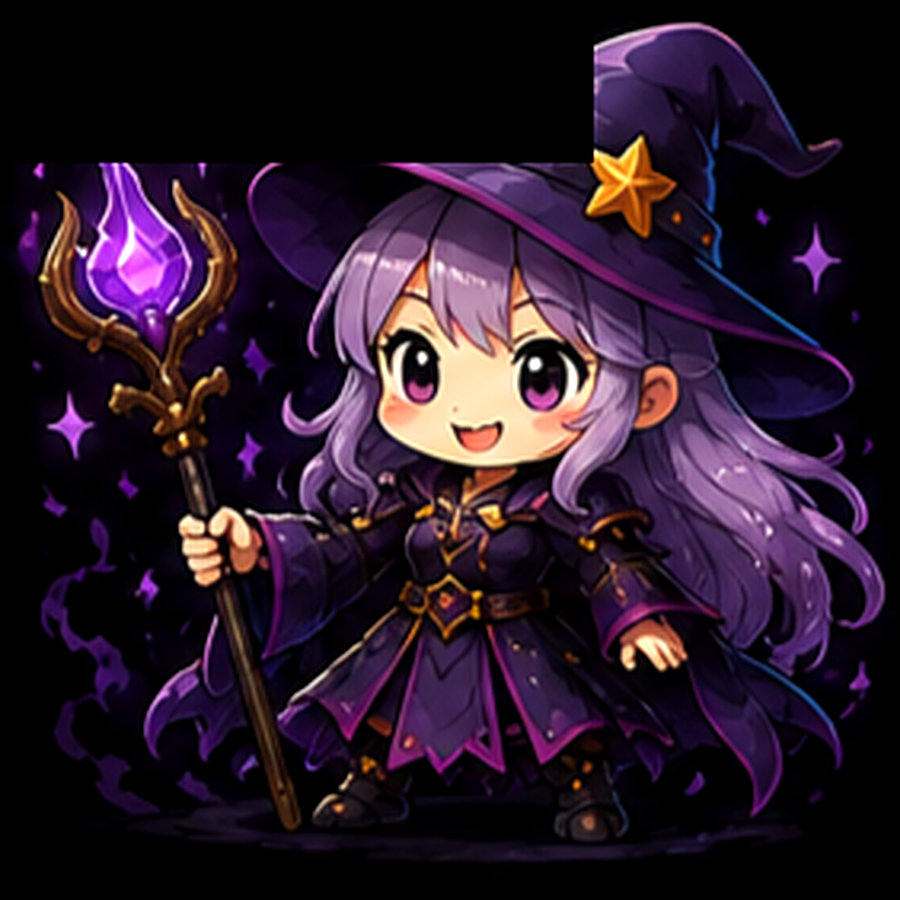
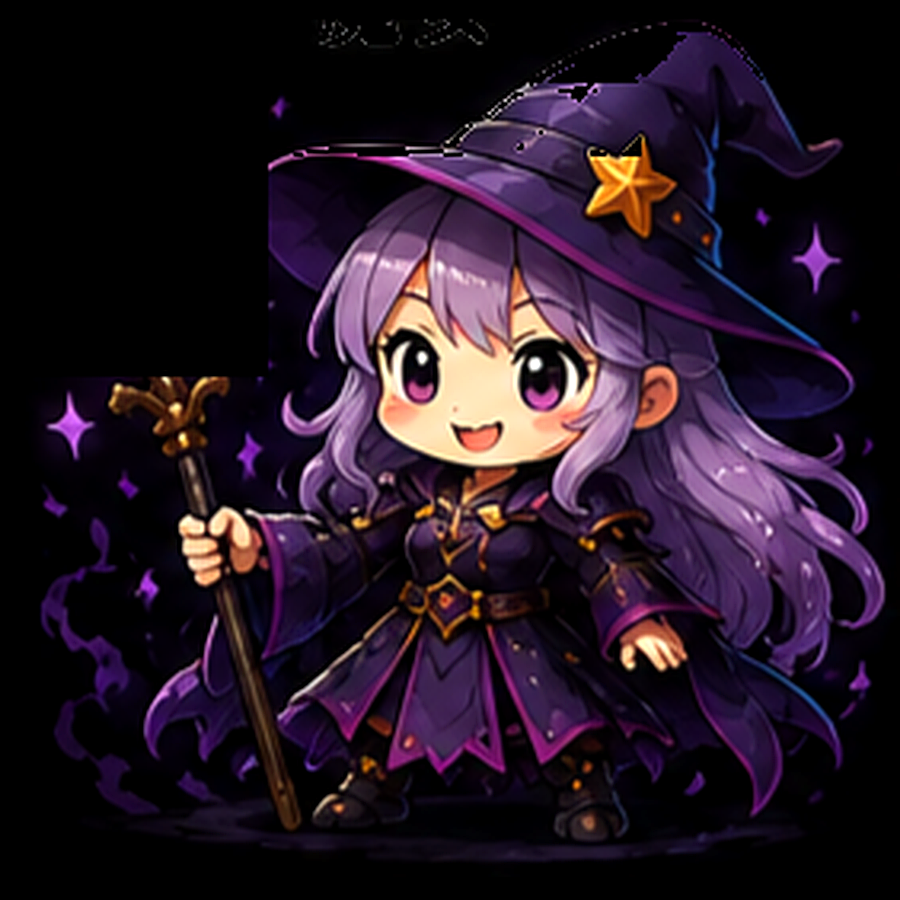
Add files via upload

diff --git a/game.js b/game.js
@@ -887,6 +887,31 @@ const SHOP_ITEMS = [
   { id: 'grace_time',     name: '⏱ 猶予タイム', cost: 60,  desc: '5秒間、危険ラインの判定を止める' },
 ];
 
+// ===== 盤面の状況から「今使うと良いアイテム」を判定 =====
+// ゴールドが足りない場合はおすすめしない
+function getShopRecommendation() {
+  if (!bodies.length) return null;
+
+  const topY = Math.min(...bodies.map(m => m.body.position.y - monsterDef(m.idx).radius));
+  const nearDanger = topY < 170; // 危険ラインに近い高さまで積み上がっている
+
+  if (nearDanger || Date.now() < mergeGraceEntries.reduce((max,e)=>Math.max(max,e.until),0)) {
+    if (score >= 200) return { id: 'bomb_clear', reason: '盤面が危険ラインに近づいています。今のうちに上段を片付けましょう。' };
+    if (score >= 60)  return { id: 'grace_time',  reason: '盤面が危険ラインに近づいています。少し猶予を作って落ち着いて置きましょう。' };
+    return null;
+  }
+
+  // 同じ階層のモンスターが多く滞留＝合体が進んでいない状況
+  const counts = {};
+  bodies.forEach(m => { if (typeof m.idx === 'number') counts[m.idx] = (counts[m.idx] || 0) + 1; });
+  const maxCount = Object.values(counts).length ? Math.max(...Object.values(counts)) : 0;
+  if (maxCount >= 6 && score >= 100) {
+    return { id: 'rainbow_charge', reason: '同じ階層のモンスターが盤面に溜まっています。虹スライムで一気にさばきましょう。' };
+  }
+
+  return null;
+}
+
 function openShop() {
   if (isGameOver) return;
   renderShop();
@@ -901,12 +926,25 @@ function renderShop() {
   document.getElementById('shop-gold').textContent = score;
   const list = document.getElementById('shop-list');
   list.innerHTML = '';
+
+  const recommendation = getShopRecommendation();
+
+  const hintEl = document.getElementById('shop-hint');
+  if (recommendation) {
+    hintEl.textContent = '💡 ' + recommendation.reason;
+    hintEl.classList.remove('hidden');
+  } else {
+    hintEl.classList.add('hidden');
+  }
+
   SHOP_ITEMS.forEach(item => {
     const btn = document.createElement('button');
     const affordable = score >= item.cost;
-    btn.className = 'shop-item' + (affordable ? '' : ' disabled');
+    const isRecommended = recommendation && recommendation.id === item.id;
+    btn.className = 'shop-item' + (affordable ? '' : ' disabled') + (isRecommended ? ' recommended' : '');
     btn.disabled = !affordable;
     btn.innerHTML = `
+      ${isRecommended ? '<span class="shop-item-badge">おすすめ！</span>' : ''}
       <span class="shop-item-name">${item.name}</span>
       <span class="shop-item-desc">${item.desc}</span>
       <span class="shop-item-cost">💰 ${item.cost}</span>
@@ -968,7 +1006,22 @@ function randomDropIdx() {
   const roll = Math.random();
   if (roll < 0.025) return 'bomb';
   if (roll < 0.055) return 'rainbow';
-  return Math.floor(Math.random() * DIFFICULTIES[currentDifficulty].dropPool);
+
+  // 階層が上がるほど出現率が下がる重み付き抽選（大きい・レアなツムほど出にくい）
+  const pool = DIFFICULTIES[currentDifficulty].dropPool;
+  let total = 0;
+  const weights = [];
+  for (let i = 0; i < pool; i++) {
+    const w = pool - i; // 例: pool=5 → [5,4,3,2,1]
+    weights.push(w);
+    total += w;
+  }
+  let r = Math.random() * total;
+  for (let i = 0; i < pool; i++) {
+    if (r < weights[i]) return i;
+    r -= weights[i];
+  }
+  return 0;
 }
 
 // ===== 危険ゾーン =====
@@ -1293,6 +1346,7 @@ function drawHoldMonster() {
 
 function doHold() {
   if (!canHold || isGameOver || isDropping) return;
+  localStorage.setItem('monsterMergeHoldUsed', '1');
   if (heldIdx === null) {
     heldIdx = currentIdx;
     currentIdx = nextIdx;
@@ -1310,7 +1364,12 @@ function doHold() {
 
 function updateHoldButtonState() {
   const panel = document.getElementById('hold-panel');
-  if (panel) panel.classList.toggle('disabled', !canHold);
+  if (panel) {
+    panel.classList.toggle('disabled', !canHold);
+    // まだ一度もホールドを使ったことがない場合、使えるタイミングでそっと目立たせる
+    const everUsed = localStorage.getItem('monsterMergeHoldUsed');
+    panel.classList.toggle('hold-hint-pulse', canHold && heldIdx === null && !everUsed);
+  }
 }
 
 function resetHold() {
@@ -1526,6 +1585,36 @@ function startGame() {
   Runner.run(runner, engine);
   currentIdx = randomDropIdx(); nextIdx = randomDropIdx();
   drawNextMonster();
+  maybeShowHoldTutorial();
+}
+
+// ===== HOLD機能の使い方案内（初回プレイ時のみ） =====
+function maybeShowHoldTutorial() {
+  if (localStorage.getItem('monsterMergeHoldTutorialShown')) return;
+  localStorage.setItem('monsterMergeHoldTutorialShown', '1');
+
+  setTimeout(() => {
+    const panel = document.getElementById('hold-panel');
+    if (!panel) return;
+    const existing = document.getElementById('hold-tutorial-tip');
+    if (existing) existing.remove();
+
+    const tip = document.createElement('div');
+    tip.id = 'hold-tutorial-tip';
+    tip.innerHTML = `
+      <div id="hold-tutorial-arrow"></div>
+      <div id="hold-tutorial-box">
+        <div id="hold-tutorial-title">💡 HOLDってなに？</div>
+        <div id="hold-tutorial-text">今のモンスターを1体だけキープできます。タップして後で使いましょう！</div>
+        <button id="hold-tutorial-close">わかった！</button>
+      </div>
+    `;
+    document.getElementById('app').appendChild(tip);
+
+    const dismiss = () => tip.remove();
+    document.getElementById('hold-tutorial-close').addEventListener('click', dismiss);
+    setTimeout(dismiss, 6000);
+  }, 600);
 }
 
 // ===== 確認ダイアログ =====

diff --git a/style.css b/style.css
@@ -947,21 +947,50 @@ button {
   text-shadow: 0 0 6px var(--glow-bright);
 }
 #shop-list { display: flex; flex-direction: column; gap: 8px; width: 100%; }
+#shop-hint {
+  width: 100%; padding: 8px 12px;
+  background: rgba(255,210,63,0.12);
+  border: 1.5px solid var(--accent-gold-bright);
+  border-radius: 10px;
+  font-size: 0.68rem; color: var(--accent-gold-bright);
+  line-height: 1.5;
+}
+
 .shop-item {
-  display: grid; grid-template-columns: 1fr auto; grid-template-rows: auto auto;
+  display: grid; grid-template-columns: 1fr auto; grid-template-rows: auto auto auto;
   width: 100%; padding: 10px 14px;
   background: rgba(0,0,0,0.25);
   border: 2px solid var(--panel-border);
   border-radius: 12px;
   color: var(--text-primary);
   font-family: var(--font-ui); text-align: left; cursor: pointer;
+  position: relative;
 }
+.shop-item-badge {
+  grid-column: 1 / 3; grid-row: 1;
+  font-size: 0.56rem; font-weight: bold; color: #1a1206;
+  background: var(--accent-gold-bright);
+  border-radius: 6px; padding: 1px 6px;
+  width: fit-content; margin-bottom: 4px;
+}
+.shop-item.recommended .shop-item-name { grid-row: 2; }
+.shop-item.recommended .shop-item-desc { grid-row: 3; }
+.shop-item.recommended .shop-item-cost { grid-row: 2; }
 .shop-item-name { grid-column: 1; grid-row: 1; font-size: 0.85rem; font-weight: bold; }
 .shop-item-desc { grid-column: 1 / 3; grid-row: 2; font-size: 0.62rem; color: var(--text-dim); margin-top: 2px; }
 .shop-item-cost {
   grid-column: 2; grid-row: 1; align-self: center;
   font-size: 0.85rem; font-weight: bold; color: var(--accent-gold-bright);
   white-space: nowrap;
+}
+.shop-item.recommended {
+  border-color: var(--accent-gold-bright);
+  box-shadow: 0 0 12px var(--glow-bright);
+  animation: shopRecommendPulse 1.6s ease-in-out infinite;
+}
+@keyframes shopRecommendPulse {
+  0%, 100% { box-shadow: 0 0 8px var(--glow-bright); }
+  50%      { box-shadow: 0 0 18px var(--glow-warm-strong); }
 }
 .shop-item.disabled { opacity: 0.4; cursor: not-allowed; }
 .shop-item:not(.disabled):active { transform: scale(0.98); }
@@ -1015,4 +1044,45 @@ button {
   }
   #game-title { font-size: 1.15rem; }
   #score-display, #best-display, #chain-display { font-size: 1.6rem; }
+}
+
+/* ===== HOLD機能：初回チュートリアル & 使用可能ヒント ===== */
+#hold-tutorial-tip {
+  position: fixed; top: 92px; right: 12px; z-index: 260;
+  display: flex; flex-direction: column; align-items: flex-end;
+  max-width: 240px;
+  animation: fadeInUp 0.3s ease;
+}
+#hold-tutorial-arrow {
+  width: 0; height: 0; margin-right: 22px;
+  border-left: 8px solid transparent; border-right: 8px solid transparent;
+  border-bottom: 10px solid var(--accent-gold-bright);
+}
+#hold-tutorial-box {
+  background: var(--bg-box);
+  border: 2px solid var(--accent-gold-bright);
+  border-radius: 12px;
+  padding: 12px 14px;
+  box-shadow: 0 6px 20px rgba(0,0,0,0.5);
+}
+#hold-tutorial-title {
+  font-size: 0.8rem; font-weight: bold; color: var(--accent-gold-bright);
+  margin-bottom: 4px;
+}
+#hold-tutorial-text {
+  font-size: 0.68rem; color: var(--text-primary); line-height: 1.5; margin-bottom: 8px;
+}
+#hold-tutorial-close {
+  width: 100%; padding: 7px;
+  background: var(--grad-btn-primary);
+  border: none; color: #fff; font-size: 0.68rem; font-weight: bold;
+  border-radius: 8px;
+}
+
+#hold-panel.hold-hint-pulse #hold-canvas {
+  animation: holdHintPulse 1.4s ease-in-out infinite;
+}
+@keyframes holdHintPulse {
+  0%, 100% { box-shadow: 0 0 0 rgba(255,215,122,0); }
+  50%      { box-shadow: 0 0 10px 3px var(--glow-bright); }
 }

diff --git a/index.html b/index.html
@@ -217,6 +217,7 @@
           <span class="score-label">所持ゴールド</span>
           <span id="shop-gold">0</span>
         </div>
+        <div id="shop-hint" class="hidden"></div>
         <div id="shop-list"></div>
         <button id="shop-close-btn">閉じる</button>
       </div>
